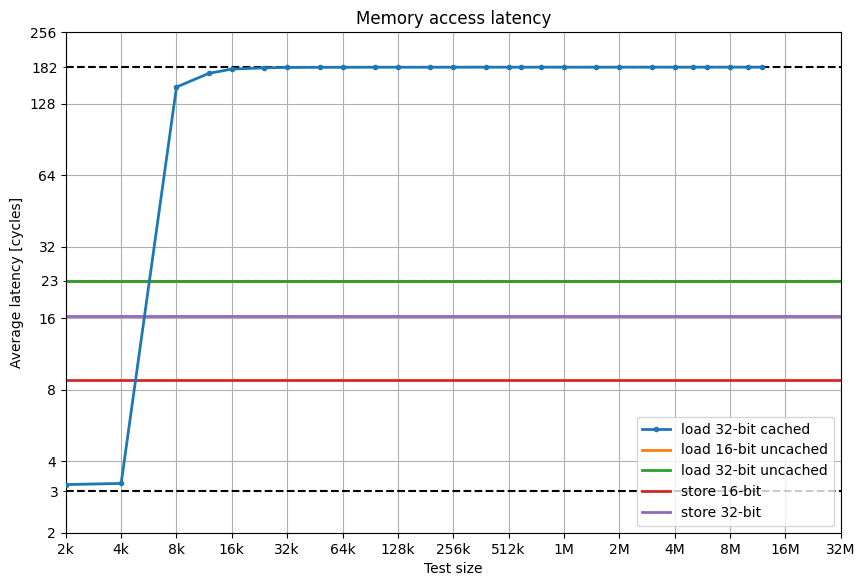
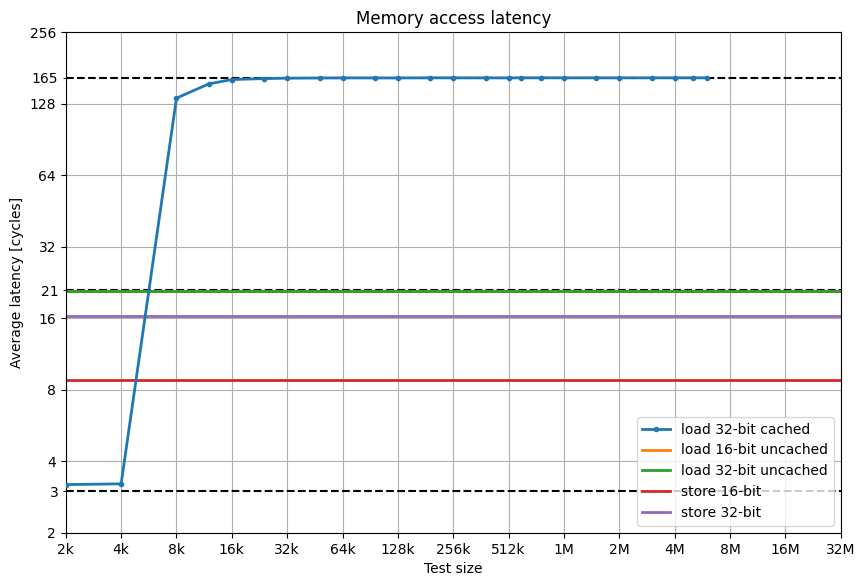
Reduce CAS latency to 2 since we run the SDRAM slow

diff --git a/firmware/demos/memory_latency/plot.py b/firmware/demos/memory_latency/plot.py
@@ -13,7 +13,7 @@ f, ax = plt.subplots(figsize=(10, 6.5))
 line_opts = dict(ls="--", c="k")
 text_opts = dict(weight="bold")
 
-h_lines = [3, 23, 182]
+h_lines = [3, 21, 165]
 
 for y in h_lines:
     ax.axhline(y, **line_opts)
@@ -28,8 +28,8 @@ for i, d in enumerate(datasets):
             color=d["color"],
             marker=".")
 
-ax.axhline(22.98, lw=2, label="load 16-bit uncached", color="C1")
-ax.axhline(22.97, lw=2, label="load 32-bit uncached", color="C2")
+ax.axhline(20.87, lw=2, label="load 16-bit uncached", color="C1")
+ax.axhline(20.87, lw=2, label="load 32-bit uncached", color="C2")
 ax.axhline(8.80, lw=2, label="store 16-bit", color="C3")
 ax.axhline(16.39, lw=2, label="store 32-bit", color="C4")
 
